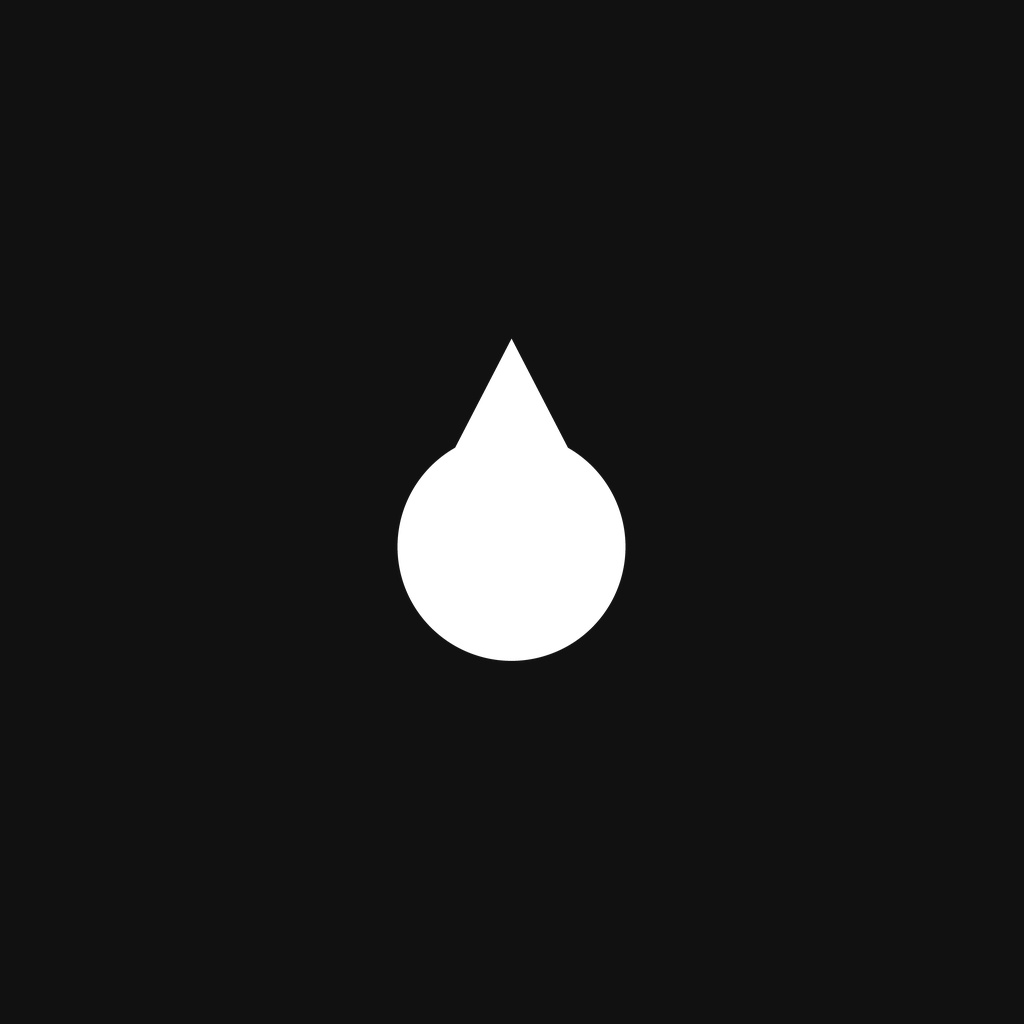
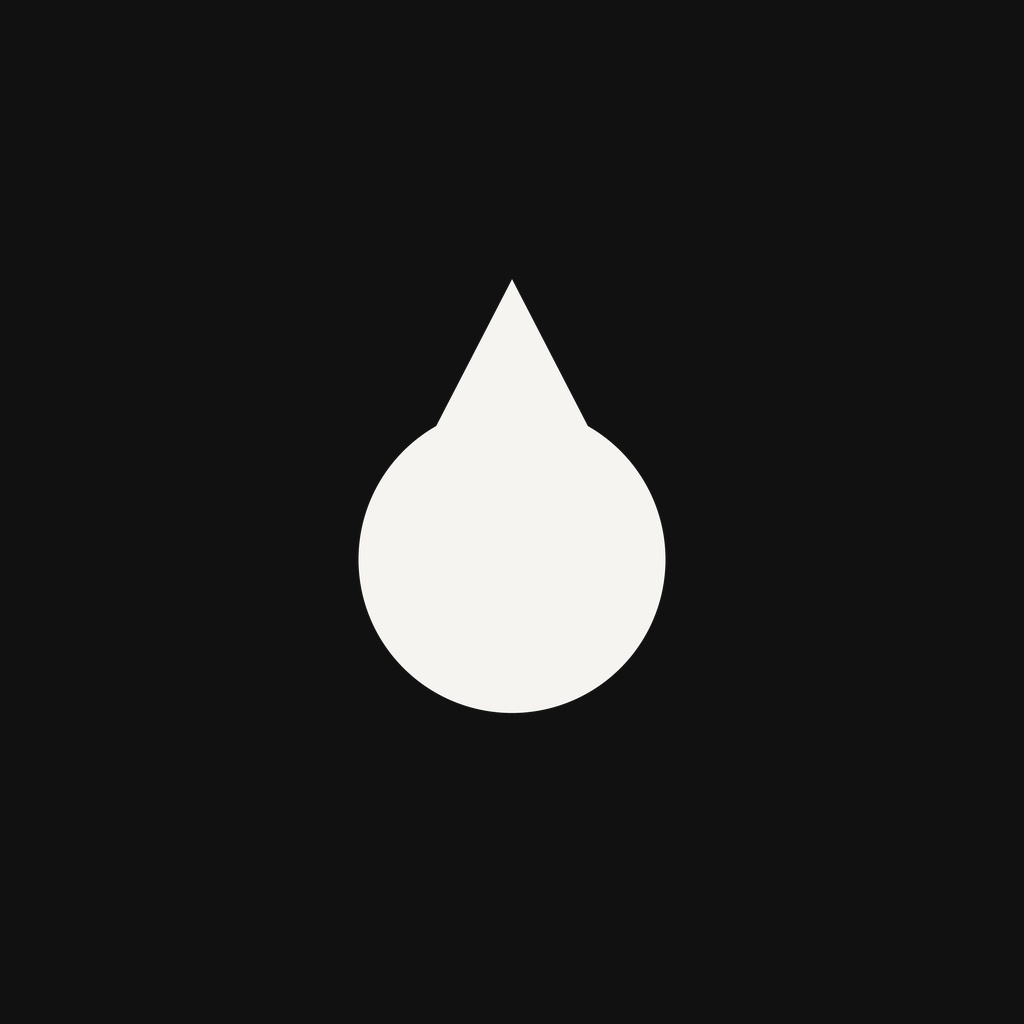
Profilbild: Tropfen von 46 auf 62 Prozent Kantenanteil
In echter Groesse nachgemessen statt am grossen Bild beurteilt. Im
Feed steht das Profilbild mit rund 40 Pixel neben der Anzeige, und
bei 46 Prozent verschwand der Tropfen dort fast. Bei 62 traegt er,
bei 72 wird der Rand zu eng.

Vorher mit Higgsfield sieben Entwuerfe erzeugt, alle mit Pfote im
Tropfen. Die erste Runde - Tropfen plus vier Zehen plus Ballen - fiel
bei 40 Pixel zu einem Fleck zusammen: sechs Formen in einem winzigen
Kreis. Die zweite Runde mit der Vorgabe "eine einzige durchgehende
Silhouette" las sich klein gut, aber die Pfote hatte die Vereinfachung
nicht ueberlebt; zwei der drei wirkten eher wie eine Flamme.

Die beste davon liegt als fb-profilbild-variante-tropfen-schwung.png
bei. Sie ist als Zeichen fuer sich schoener, passt aber nicht mehr zum
Tropfen im Shop-Kopf und im Browser-Symbol. Wer sie nimmt, muss den
Shop mitziehen - sonst stehen zwei Marken nebeneinander.

Claude-Session: https://claude.ai/code/session_01VSwRRNMuiMW9jhpUvJvs51

Changed region(s): [[0.3438, 0.2812, 0.6562, 0.7188]]

diff --git a/marketing/facebook/bilder.py b/marketing/facebook/bilder.py
@@ -61,8 +61,12 @@ def tropfen(groesse, farbe):
 
 
 def profilbild(pfad, kante=1024):
+    # 0.46 war zu zaghaft. Am 18.8.2026 in echter Groesse nachgemessen:
+    # im Feed steht das Profilbild mit rund 40 Pixel neben der Anzeige,
+    # und bei 46 Prozent Kantenanteil verschwand der Tropfen dort fast.
+    # Bei 0.62 traegt er, bei 0.72 wird der Rand zu eng.
     b = Image.new("RGB", (kante, kante), TEXT)
-    t = tropfen(int(kante * 0.46), "#FFFFFF")
+    t = tropfen(int(kante * 0.62), "#FFFFFF")
     b.paste(t, ((kante - t.width) // 2, (kante - t.height) // 2), t)
     b.save(pfad, quality=95)
     return b.size
